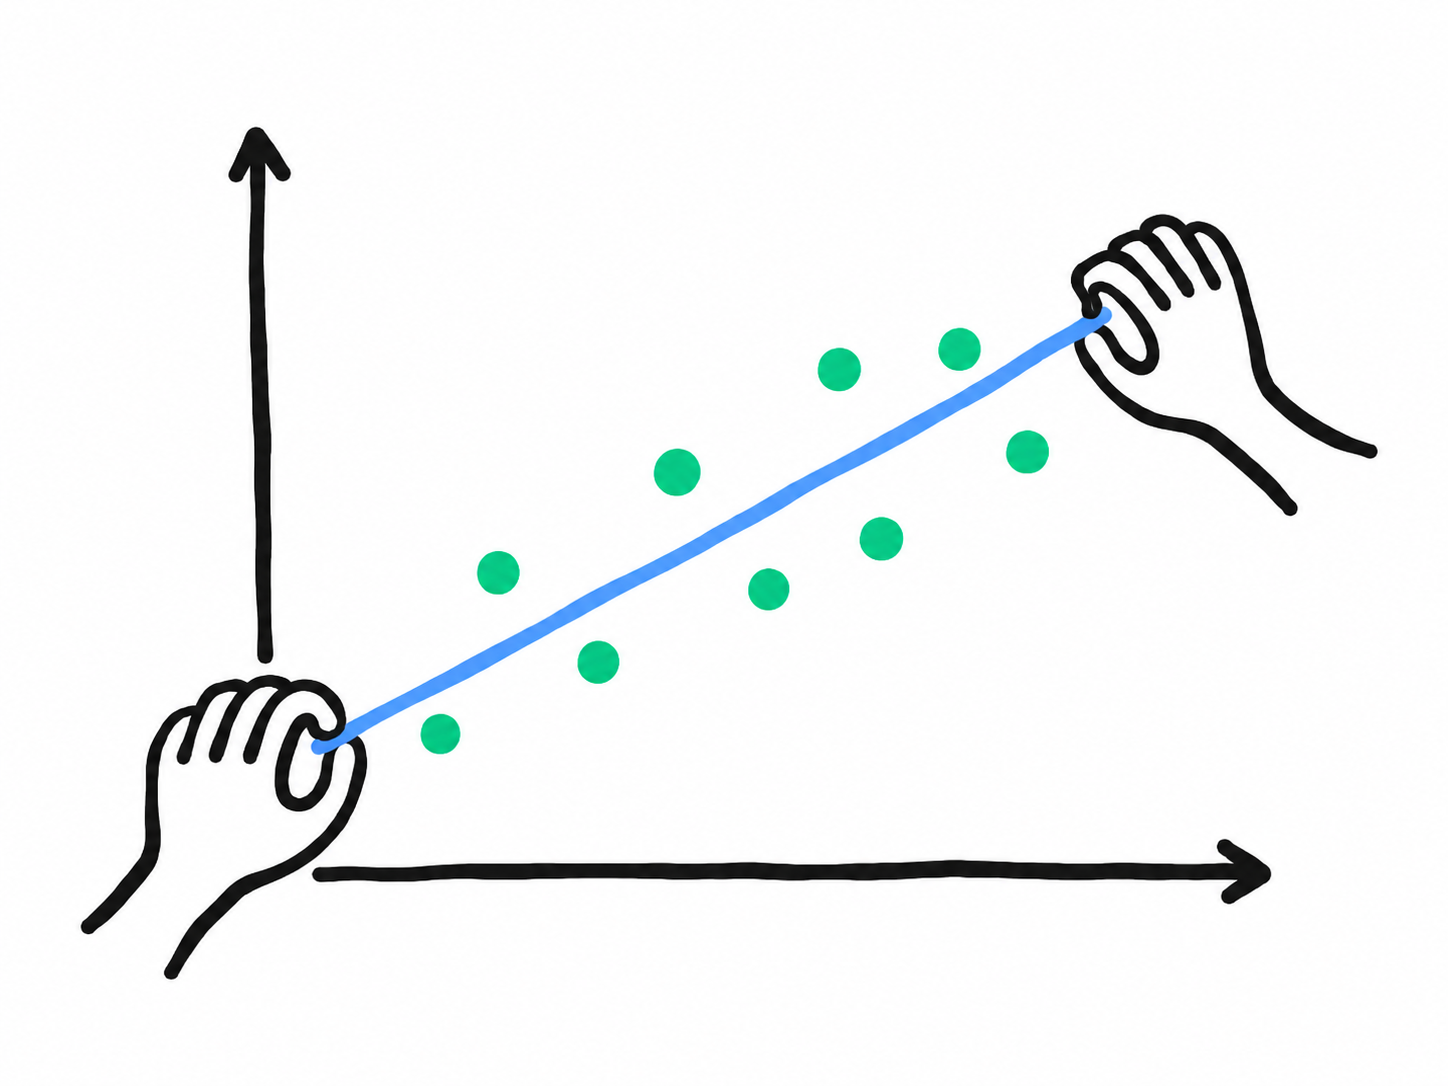
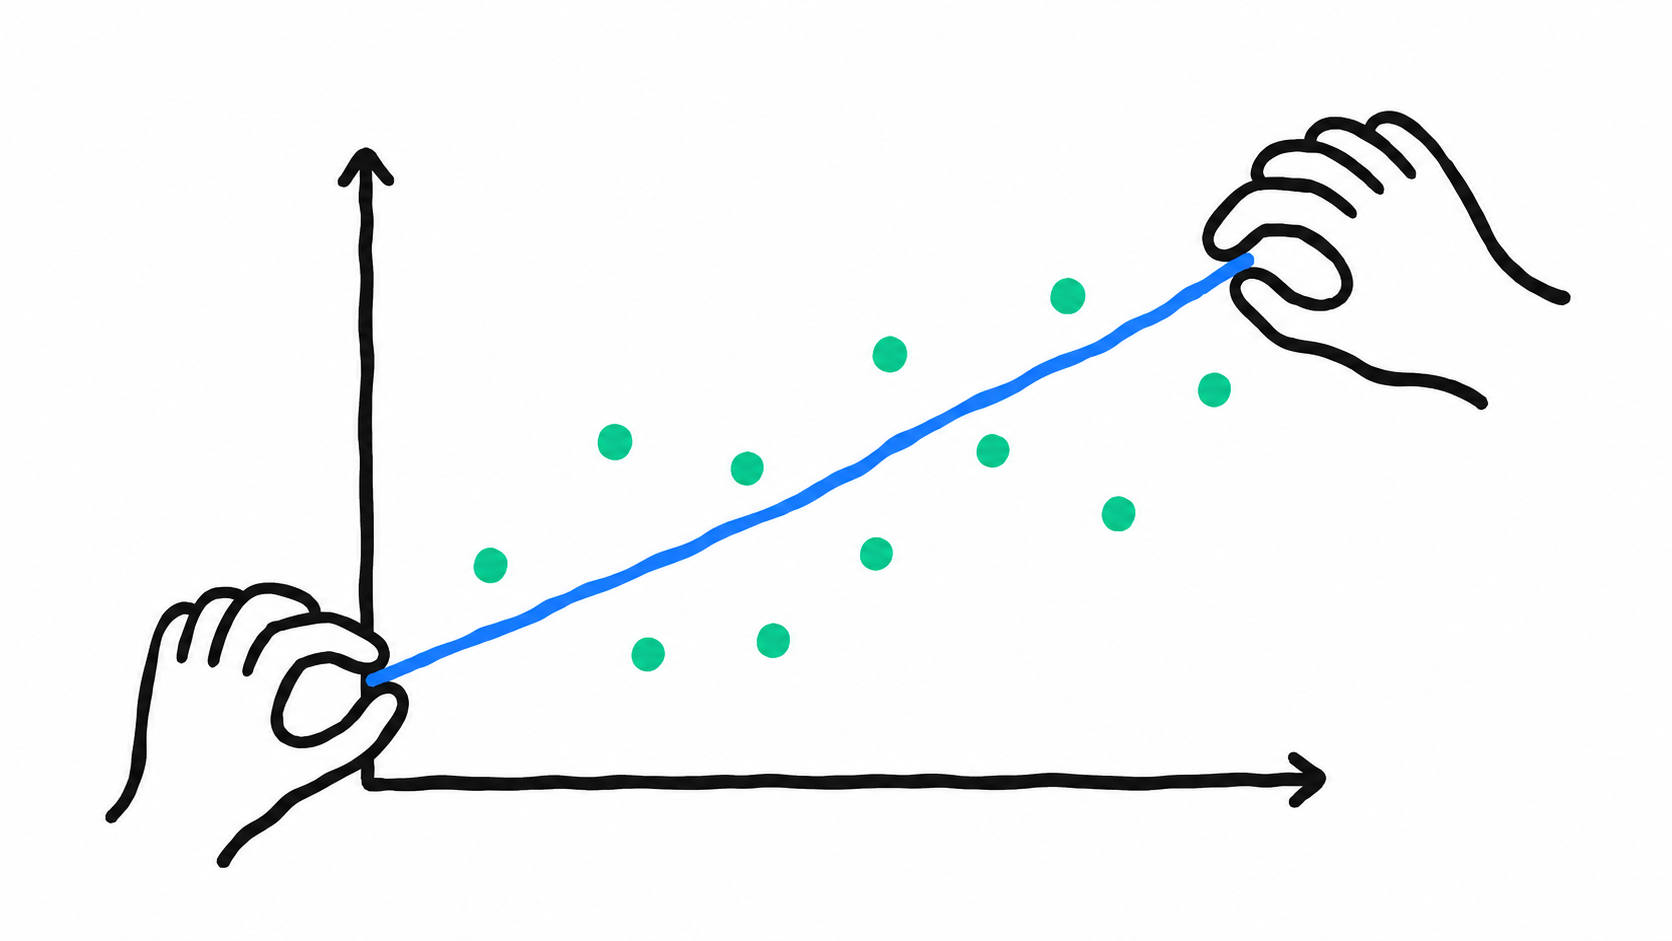
refactor(ui): streamline landing page motion
Why: simplify the motion path and make the landing-page reveals more stable.
What: replace the hero reveal timeline with a single tween, gate the footer reveal on
coverage, and update the playground preview asset ratio.
Notes: validated with `vp check src` and `vp test run`.

diff --git a/src/components/ui/motion-footer.tsx b/src/components/ui/motion-footer.tsx
@@ -41,7 +41,8 @@ const footerHeadingText = "ML should be fun!";
 const footerCurvedLoopText = "Predicting the future isn't magic, it's artificial intelligence.";
 const footerHeadingWordDelay = 150;
 const footerHeadingStepDuration = 0.35;
-const footerHeadingTextRevealStart = "top 25%";
+const footerRevealTopThreshold = 1;
+const footerCoveredResetBuffer = 24;
 const footerHeadingRevealProgress = 0.8;
 const footerButtonRevealDelay = Math.round(
   ((footerHeadingText.split(" ").length - 1) * footerHeadingWordDelay +
@@ -121,6 +122,7 @@ export function CinematicFooter() {
   const headingRef = useRef<HTMLDivElement>(null);
   const linksRef = useRef<HTMLDivElement>(null);
   const buttonRevealTimeoutRef = useRef<ReturnType<typeof window.setTimeout> | null>(null);
+  const isFooterContentRevealedRef = useRef(false);
   const [areFooterButtonsVisible, setAreFooterButtonsVisible] = useState(false);
   const [isHeadingTextVisible, setIsHeadingTextVisible] = useState(false);
   const [headingTextReplayKey, setHeadingTextReplayKey] = useState(0);
@@ -132,32 +134,76 @@ export function CinematicFooter() {
       return;
     }
 
+    let revealCheckFrame: number | null = null;
+
     const ctx = gsap.context(() => {
+      const isFooterFullyCovered = () =>
+        (wrapperRef.current?.getBoundingClientRect().top ?? Number.POSITIVE_INFINITY) <=
+        footerRevealTopThreshold;
+
+      const clearButtonRevealTimeout = () => {
+        if (buttonRevealTimeoutRef.current !== null) {
+          window.clearTimeout(buttonRevealTimeoutRef.current);
+          buttonRevealTimeoutRef.current = null;
+        }
+      };
+
+      const getFooterContentCoveredStart = () => {
+        const fallbackResetPoint = window.innerHeight * 0.72;
+        const contentBottom =
+          linksRef.current?.getBoundingClientRect().bottom ??
+          headingRef.current?.getBoundingClientRect().bottom ??
+          fallbackResetPoint;
+        const resetPoint = Math.min(
+          window.innerHeight - 1,
+          Math.max(0, contentBottom + footerCoveredResetBuffer),
+        );
+
+        return `top ${Math.round(resetPoint)}px`;
+      };
+
+      const revealFooterContent = () => {
+        if (isFooterContentRevealedRef.current) {
+          return;
+        }
+
+        isFooterContentRevealedRef.current = true;
+        clearButtonRevealTimeout();
+        setAreFooterButtonsVisible(false);
+        setHeadingTextReplayKey((key) => key + 1);
+        setIsHeadingTextVisible(true);
+        buttonRevealTimeoutRef.current = window.setTimeout(() => {
+          buttonRevealTimeoutRef.current = null;
+          setAreFooterButtonsVisible(true);
+        }, footerButtonRevealDelay);
+      };
+
+      const revealFooterContentWhenCovered = () => {
+        if (isFooterFullyCovered()) {
+          revealFooterContent();
+        }
+      };
+
       ScrollTrigger.create({
-        onEnter: () => {
-          if (buttonRevealTimeoutRef.current !== null) {
-            window.clearTimeout(buttonRevealTimeoutRef.current);
-            buttonRevealTimeoutRef.current = null;
-          }
-          setAreFooterButtonsVisible(false);
-          setHeadingTextReplayKey((key) => key + 1);
-          setIsHeadingTextVisible(true);
-          buttonRevealTimeoutRef.current = window.setTimeout(() => {
-            buttonRevealTimeoutRef.current = null;
-            setAreFooterButtonsVisible(true);
-          }, footerButtonRevealDelay);
-        },
         onLeaveBack: () => {
-          if (buttonRevealTimeoutRef.current !== null) {
-            window.clearTimeout(buttonRevealTimeoutRef.current);
-            buttonRevealTimeoutRef.current = null;
-          }
+          clearButtonRevealTimeout();
+          isFooterContentRevealedRef.current = false;
           setAreFooterButtonsVisible(false);
           setIsHeadingTextVisible(false);
         },
-        start: footerHeadingTextRevealStart,
+        start: getFooterContentCoveredStart,
         trigger: wrapperRef.current,
       });
+
+      ScrollTrigger.create({
+        end: "bottom top",
+        onRefresh: revealFooterContentWhenCovered,
+        onUpdate: revealFooterContentWhenCovered,
+        start: "top bottom",
+        trigger: wrapperRef.current,
+      });
+
+      revealCheckFrame = window.requestAnimationFrame(revealFooterContentWhenCovered);
 
       gsap.fromTo(
         giantTextRef.current,
@@ -175,25 +221,12 @@ export function CinematicFooter() {
           y: "0vh",
         },
       );
-
-      gsap.fromTo(
-        headingRef.current,
-        { opacity: 0, y: 50 },
-        {
-          ease: "power3.out",
-          opacity: 1,
-          scrollTrigger: {
-            end: "bottom bottom",
-            scrub: 1,
-            start: "top 45%",
-            trigger: wrapperRef.current,
-          },
-          y: 0,
-        },
-      );
     }, wrapperRef);
 
     return () => {
+      if (revealCheckFrame !== null) {
+        window.cancelAnimationFrame(revealCheckFrame);
+      }
       if (buttonRevealTimeoutRef.current !== null) {
         window.clearTimeout(buttonRevealTimeoutRef.current);
         buttonRevealTimeoutRef.current = null;
@@ -209,7 +242,14 @@ export function CinematicFooter() {
 
     const ctx = gsap.context(() => {
       if (!areFooterButtonsVisible) {
-        gsap.set("[data-footer-glass-button]", { autoAlpha: 0, y: 22 });
+        gsap.to("[data-footer-glass-button]", {
+          autoAlpha: 0,
+          duration: 0.28,
+          ease: "power2.in",
+          overwrite: true,
+          stagger: 0.035,
+          y: 22,
+        });
         return;
       }
 

diff --git a/src/pages/LandingPage.tsx b/src/pages/LandingPage.tsx
@@ -184,10 +184,8 @@ export function LandingPage() {
   useGSAP(
     () => {
       const heroAction = heroActionRef.current;
-      const exploreButton = exploreButtonRef.current;
-      const exploreLabel = exploreLabelRef.current;
 
-      if (!heroAction || !exploreButton || !exploreLabel) {
+      if (!heroAction) {
         return;
       }
 
@@ -196,96 +194,21 @@ export function LandingPage() {
         window.matchMedia("(prefers-reduced-motion: reduce)").matches
       ) {
         gsap.set(heroAction, { autoAlpha: 1, clearProps: "transform" });
-        gsap.set([exploreButton, exploreLabel], {
-          autoAlpha: 1,
-          clearProps: "filter,transform",
-        });
         return;
       }
 
       if (!canRevealHeroAction) {
-        gsap.set(heroAction, { autoAlpha: 0, y: 56 });
-        gsap.set(exploreButton, {
-          filter: "blur(8px)",
-          scaleX: 0.72,
-          scaleY: 1.34,
-          transformOrigin: "50% 100%",
-        });
-        gsap.set(exploreLabel, { autoAlpha: 0, y: 10 });
+        gsap.set(heroAction, { autoAlpha: 0, y: 26 });
         return;
       }
 
-      const revealTimeline = gsap.timeline({
-        defaults: {
-          overwrite: true,
-        },
-        onComplete: () => {
-          gsap.set(heroAction, { clearProps: "transform,opacity,visibility" });
-          gsap.set(exploreButton, { clearProps: "filter,scaleX,scaleY" });
-          gsap.set(exploreLabel, { clearProps: "transform,opacity,visibility" });
-        },
+      gsap.to(heroAction, {
+        autoAlpha: 1,
+        clearProps: "transform,opacity,visibility",
+        duration: 0.42,
+        ease: "power3.out",
+        y: 0,
       });
-
-      revealTimeline
-        .to(
-          heroAction,
-          {
-            autoAlpha: 1,
-            duration: 0.2,
-            ease: "power2.out",
-          },
-          0,
-        )
-        .to(
-          heroAction,
-          {
-            duration: 0.68,
-            ease: "elastic.out(1, 0.58)",
-            y: 0,
-          },
-          0,
-        )
-        .to(
-          exploreButton,
-          {
-            duration: 0.18,
-            ease: "power2.out",
-            filter: "blur(0px)",
-            scaleX: 1.18,
-            scaleY: 0.72,
-          },
-          0.04,
-        )
-        .to(
-          exploreButton,
-          {
-            duration: 0.22,
-            ease: "power3.out",
-            scaleX: 0.9,
-            scaleY: 1.13,
-          },
-          0.22,
-        )
-        .to(
-          exploreButton,
-          {
-            duration: 0.46,
-            ease: "elastic.out(1, 0.42)",
-            scaleX: 1,
-            scaleY: 1,
-          },
-          0.38,
-        )
-        .to(
-          exploreLabel,
-          {
-            autoAlpha: 1,
-            duration: 0.26,
-            ease: "power3.out",
-            y: 0,
-          },
-          0.16,
-        );
     },
     { dependencies: [canRevealHeroAction], scope: landingRef },
   );
@@ -1263,7 +1186,7 @@ export function LandingPage() {
 
               <figure
                 aria-label="Interactive ML Playground preview"
-                className="absolute -bottom-[4%] left-1/2 z-10 aspect-[4/3] h-[min(46svh,520px)] -translate-x-1/2 overflow-hidden rounded-2xl bg-zinc-600 opacity-0 will-change-[transform,opacity]"
+                className="absolute -bottom-[4%] left-1/2 z-10 aspect-video h-[min(46svh,520px)] -translate-x-1/2 overflow-hidden rounded-2xl bg-zinc-600 opacity-0 will-change-[transform,opacity]"
                 data-playground-intro-visual
               >
                 <img